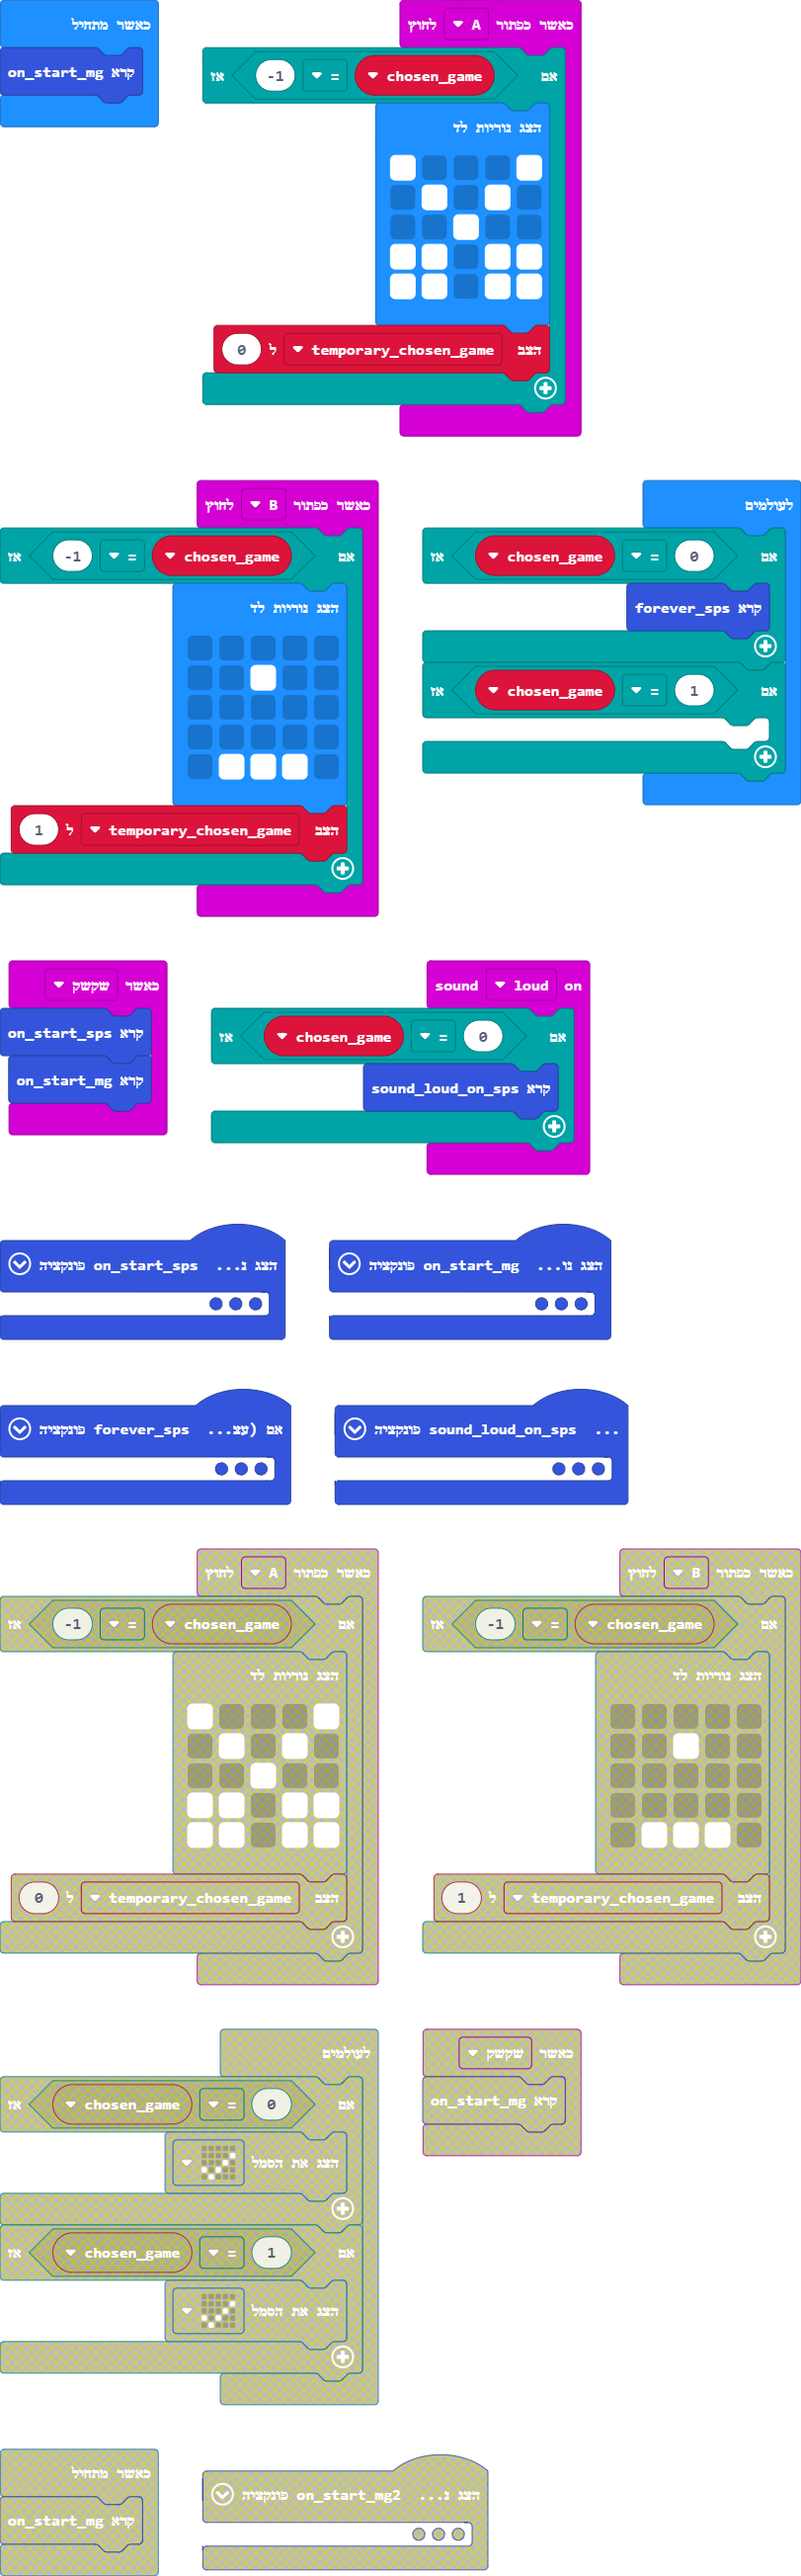
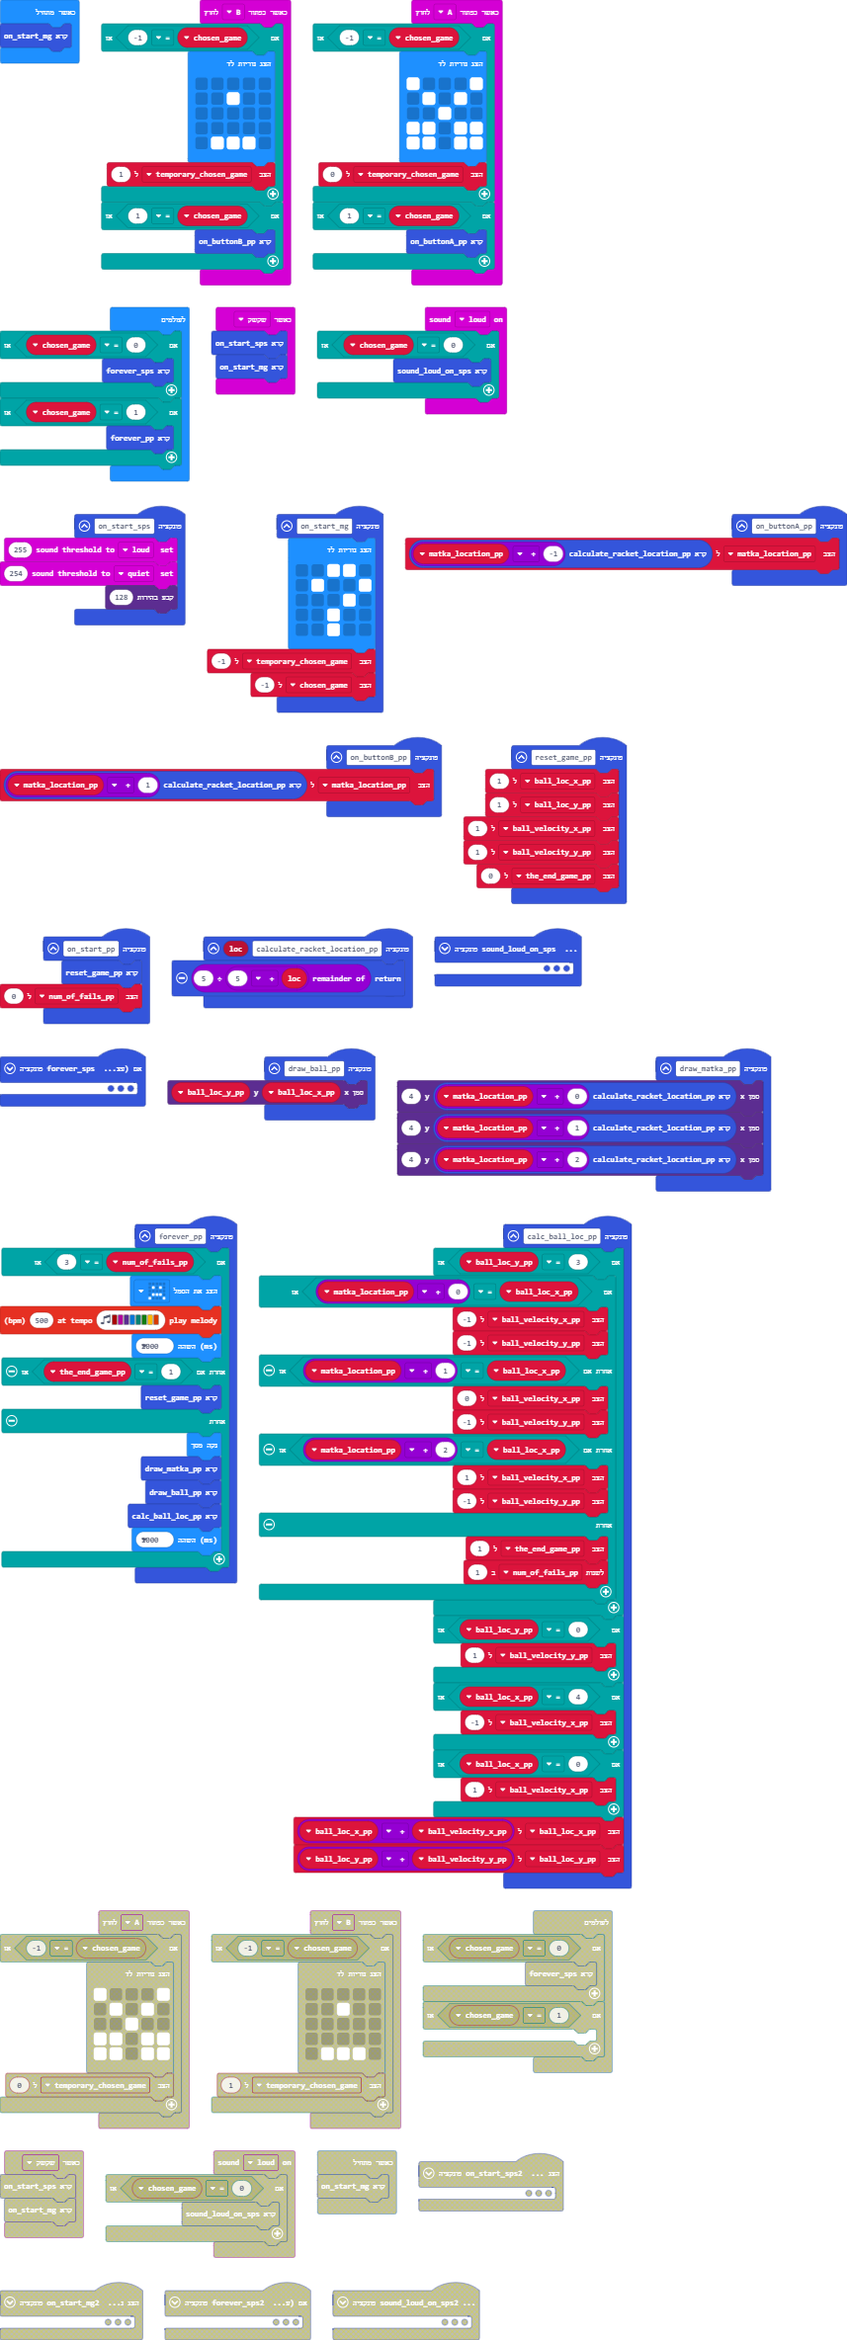
ADDED PP

diff --git a/main.ts b/main.ts
@@ -1,24 +1,15 @@
+function calculate_racket_location_pp (loc: number) {
+    return (loc + 5) % 5
+}
 input.onGesture(Gesture.Shake, function () {
     on_start_sps()
     on_start_mg()
 })
+function on_start_pp () {
+    reset_game_pp()
+    num_of_fails_pp = 0
+}
 function on_start_sps () {
-    basic.showLeds(`
-        . . . . .
-        . . . . .
-        . . . . .
-        . . . . .
-        # . # . #
-        `)
-    music.playMelody("- - - C5 B A B C5 ", 120)
-    basic.pause(100)
-    basic.showLeds(`
-        . . . . .
-        . . . . .
-        . . . . .
-        . . . . .
-        . . . . .
-        `)
     input.setSoundThreshold(SoundThreshold.Loud, 255)
     input.setSoundThreshold(SoundThreshold.Quiet, 254)
     led.setBrightness(128)
@@ -34,7 +25,17 @@ input.onButtonPressed(Button.A, function () {
             `)
         temporary_chosen_game = 0
     }
+    if (chosen_game == 1) {
+        on_buttonA_pp()
+    }
 })
+function reset_game_pp () {
+    ball_loc_x_pp = 1
+    ball_loc_y_pp = 1
+    ball_velocity_x_pp = 1
+    ball_velocity_y_pp = 1
+    the_end_game_pp = 0
+}
 function forever_sps () {
     if (input.lightLevel() < 70) {
         led.setBrightness(50)
@@ -43,6 +44,40 @@ function forever_sps () {
     } else {
         led.setBrightness(128)
     }
+}
+function on_buttonB_pp () {
+    matka_location_pp = calculate_racket_location_pp(1 + matka_location_pp)
+}
+function on_buttonA_pp () {
+    matka_location_pp = calculate_racket_location_pp(-1 + matka_location_pp)
+}
+function calc_ball_loc_pp () {
+    if (3 == ball_loc_y_pp) {
+        if (ball_loc_x_pp == 0 + matka_location_pp) {
+            ball_velocity_x_pp = -1
+            ball_velocity_y_pp = -1
+        } else if (ball_loc_x_pp == 1 + matka_location_pp) {
+            ball_velocity_x_pp = 0
+            ball_velocity_y_pp = -1
+        } else if (ball_loc_x_pp == 2 + matka_location_pp) {
+            ball_velocity_x_pp = 1
+            ball_velocity_y_pp = -1
+        } else {
+            the_end_game_pp = 1
+            num_of_fails_pp += 1
+        }
+    }
+    if (0 == ball_loc_y_pp) {
+        ball_velocity_y_pp = 1
+    }
+    if (4 == ball_loc_x_pp) {
+        ball_velocity_x_pp = -1
+    }
+    if (0 == ball_loc_x_pp) {
+        ball_velocity_x_pp = 1
+    }
+    ball_loc_x_pp = ball_velocity_x_pp + ball_loc_x_pp
+    ball_loc_y_pp = ball_velocity_y_pp + ball_loc_y_pp
 }
 input.onSound(DetectedSound.Loud, function () {
     if (0 == chosen_game) {
@@ -60,7 +95,30 @@ input.onButtonPressed(Button.B, function () {
             `)
         temporary_chosen_game = 1
     }
+    if (chosen_game == 1) {
+        on_buttonB_pp()
+    }
 })
+function forever_pp () {
+    if (num_of_fails_pp == 3) {
+        basic.showIcon(IconNames.Sad)
+        music.playMelody("C5 C D E F G A B ", 500)
+        basic.pause(2000)
+    } else if (1 == the_end_game_pp) {
+        reset_game_pp()
+    } else {
+        basic.clearScreen()
+        draw_matka_pp()
+        draw_ball_pp()
+        calc_ball_loc_pp()
+        basic.pause(1000)
+    }
+}
+function draw_matka_pp () {
+    led.plot(calculate_racket_location_pp(0 + matka_location_pp), 4)
+    led.plot(calculate_racket_location_pp(1 + matka_location_pp), 4)
+    led.plot(calculate_racket_location_pp(2 + matka_location_pp), 4)
+}
 function sound_loud_on_sps () {
     basic.showNumber(3)
     basic.pause(500)
@@ -98,6 +156,9 @@ function sound_loud_on_sps () {
 input.onLogoEvent(TouchButtonEvent.Pressed, function () {
     chosen_game = temporary_chosen_game
 })
+function draw_ball_pp () {
+    led.plot(ball_loc_x_pp, ball_loc_y_pp)
+}
 function on_start_mg () {
     basic.showLeds(`
         . . # # .
@@ -110,14 +171,21 @@ function on_start_mg () {
     chosen_game = -1
 }
 let gg_sps = 0
+let matka_location_pp = 0
+let the_end_game_pp = 0
+let ball_velocity_y_pp = 0
+let ball_velocity_x_pp = 0
+let ball_loc_y_pp = 0
+let ball_loc_x_pp = 0
 let temporary_chosen_game = 0
 let chosen_game = 0
+let num_of_fails_pp = 0
 on_start_mg()
 basic.forever(function () {
     if (0 == chosen_game) {
         forever_sps()
     }
     if (1 == chosen_game) {
-    	
+        forever_pp()
     }
 })

diff --git a/main.py b/main.py
@@ -118,6 +118,81 @@ temporary_chosen_game = 0
 chosen_game = 0
 on_start_mg()
 
+def calculate_racket_location_pp(loc: number):
+    return (loc + 5) % 5
+def on_start_pp():
+    global num_of_fails_pp
+    reset_game_pp()
+    num_of_fails_pp = 0
+
+
+def reset_game_pp():
+    global ball_loc_x_pp, ball_loc_y_pp, ball_velocity_x_pp, ball_velocity_y_pp, the_end_game_pp
+    ball_loc_x_pp = 1
+    ball_loc_y_pp = 1
+    ball_velocity_x_pp = 1
+    ball_velocity_y_pp = 1
+    the_end_game_pp = 0
+def on_buttonB_pp():
+    global matka_location_pp
+    matka_location_pp = calculate_racket_location_pp(1 + matka_location_pp)
+def on_buttonA_pp():
+    global matka_location_pp
+    matka_location_pp = calculate_racket_location_pp(-1 + matka_location_pp)
+def calc_ball_loc_pp():
+    global ball_velocity_x_pp, ball_velocity_y_pp, the_end_game_pp, num_of_fails_pp, ball_loc_x_pp, ball_loc_y_pp
+    if 3 == ball_loc_y_pp:
+        if ball_loc_x_pp == 0 + matka_location_pp:
+            ball_velocity_x_pp = -1
+            ball_velocity_y_pp = -1
+        elif ball_loc_x_pp == 1 + matka_location_pp:
+            ball_velocity_x_pp = 0
+            ball_velocity_y_pp = -1
+        elif ball_loc_x_pp == 2 + matka_location_pp:
+            ball_velocity_x_pp = 1
+            ball_velocity_y_pp = -1
+        else:
+            the_end_game_pp = 1
+            num_of_fails_pp += 1
+    if 0 == ball_loc_y_pp:
+        ball_velocity_y_pp = 1
+    if 4 == ball_loc_x_pp:
+        ball_velocity_x_pp = -1
+    if 0 == ball_loc_x_pp:
+        ball_velocity_x_pp = 1
+    ball_loc_x_pp = ball_velocity_x_pp + ball_loc_x_pp
+    ball_loc_y_pp = ball_velocity_y_pp + ball_loc_y_pp
+
+
+def forever_pp():
+    if num_of_fails_pp == 3:
+        basic.show_icon(IconNames.SAD)
+        music.play_melody("C5 C D E F G A B ", 500)
+        basic.pause(2000)
+    else:
+        if 1 == the_end_game_pp:
+            reset_game_pp()
+        else:
+            basic.clear_screen()
+            draw_matka_pp()
+            draw_ball_pp()
+            calc_ball_loc_pp()
+            basic.pause(1000)
+def draw_matka_pp():
+    led.plot(calculate_racket_location_pp(0 + matka_location_pp), 4)
+    led.plot(calculate_racket_location_pp(1 + matka_location_pp), 4)
+    led.plot(calculate_racket_location_pp(2 + matka_location_pp), 4)
+def draw_ball_pp():
+    led.plot(ball_loc_x_pp, ball_loc_y_pp)
+matka_location_pp = 0
+the_end_game_pp = 0
+ball_velocity_y_pp = 0
+ball_velocity_x_pp = 0
+ball_loc_y_pp = 0
+ball_loc_x_pp = 0
+num_of_fails_pp = 0
+
+
 def on_forever():
     if 0 == chosen_game:
         forever_sps()
